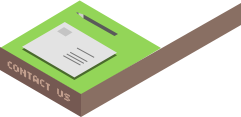
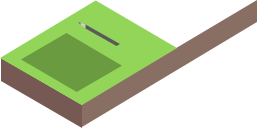
added ajax for aml sending forms

diff --git a/src/js/forms.js b/src/js/forms.js
@@ -23,9 +23,6 @@
       $.ajax({
         url: "https://api.kinguin.io/api/create-profile/kyc",
         type: "POST",
-        headers: {
-          "Authorization": "Basic a2luZ3VpbjpLIzg3Z3VpIQ=="
-        },
         data: {
           "uid": name + "1234",
           "username": name,
@@ -112,12 +109,10 @@
 
 
   let kycProfile = function kycProfile() {
+    var uid = getQueryParam("uid");
     $.ajax({
-      url: "https://api.kinguin.io/api/update-profile/kyc/:testUser1234",
+      url: "https://api.kinguin.io/api/update-profile/kyc/:" + uid,
       type: "PUT",
-      headers: {
-        "Authorization": "Basic a2luZ3VpbjpLIzg3Z3VpIQ=="
-      },
       data: {
         "FULL NAME": fullName,
         "COMPANY NAME": company,
@@ -127,7 +122,7 @@
         "COUNTRY": country,
         "NATIONAL ID PICTURE": identImg,
         "ADDRESS VERIFICATION DOCUMENT": addressDoc,
-        "UID": "testUser1234",
+        "UID": uid || "",
         "EMAIL": userEmail
       }
     });
@@ -182,6 +177,56 @@
     });
     kycProfile();
     console.log(fullName, company, regID, nationality, address, zip, country);
+  });
+
+  let ethEmail;
+  let btcEmail;
+  let ethSend;
+  let ethRec = 'n/a';
+  let btcSend = 'n/a';
+
+  let sendAML = function sendAML() {
+    var uid = getQueryParam("uid");
+    var ual = getQueryParam("ual");
+    $.ajax({
+      url: "https://api.kinguin.io/api/update-profile:" + uid,
+      type: "PUT",
+      data: {
+        "UNIQUE AML LINK": ual,
+        "ETH SENDING ADDRESS": ethSend,
+        "ETH RECEIVING ADDRESS": ethRec,
+        "BTC SENDING ADDRESS": btcSend
+      }
+    });
+    $('#islands-wrapper').removeClass('blur');
+    alert('AML SUCCESS');
+  };
+
+  $('#aml-eth-continue').click(function (e) {
+    e.preventDefault();
+    $('#eth-email').val(function () {
+      ethEmail = this.value;
+    });
+    $('#eth-send').val(function () {
+      ethSend = this.value;
+    });
+    $('#eth-rec').val(function () {
+      ethRec = this.value;
+    });
+    sendAML();
+    // TODO: ADD THANK YOU POPUP
+  });
+
+  $('#aml-btc-continue').click(function (e) {
+    e.preventDefault();
+    $('#btc-email').val(function () {
+      btcEmail = this.value;
+    });
+    $('#btc-send').val(function () {
+      btcSend = this.value;
+    });
+    sendAML();
+    // TODO: ADD THANK YOU POPUP
   });
 
 }());

diff --git a/src/js/popups.js b/src/js/popups.js
@@ -140,26 +140,37 @@
     //EMAIL TRIGGERED POPUPS
     //***************************************************
 
-    $(document).ready(function () {
-      var name = "cb";
+    function getQueryParam(param) {
       var url = window.location.href;
-      name = name.replace(/[\[\]]/g, "\\$&");
-      console.log(name);
-      var regex = new RegExp("[?&]" + name + "(=([^&#]*)|&|#|$)"),
+      param = param.replace(/[\[\]]/g, "\\$&");
+      var regex = new RegExp("[?&]" + param + "(=([^&#]*)|&|#|$)"),
         results = regex.exec(url);
       if (results && results[2]) {
-        var query = decodeURIComponent(results[2].replace(/\+/g, " "));
-        if (query === "aml-eth") {
+        return decodeURIComponent(results[2].replace(/\+/g, " "));
+      } else {
+        return false;
+      }
+
+    }
+
+    $(document).ready(function () {
+      var query = getQueryParam("cb");
+      switch (query) {
+        case "aml-eth":
           blur();
           $('#aml-eth-popup').removeClass('hide');
-        } else if (query === "aml-btc") {
+          break;
+        case "aml-btc":
           blur();
           $('#aml-btc-popup').removeClass('hide');
-        } else if (query === 'kyc-usd' || 'kyc-eur') {
+          break;
+        case ('kyc-usd'):
           blur();
           $('#investor-popup').removeClass('hide');
-        }
-        console.log(query);
+          break;
+        case ('kyc-eur'):
+          blur();
+          $('#investor-popup').removeClass('hide');
       }
     });
 

diff --git a/src/index.html b/src/index.html
@@ -165,8 +165,8 @@
 
         <img class='company' src='img/Company.png' alt=''>
         <img class='company-penguin' src='img/Company_penguin.png' alt=''>
-        <div id='contactus' class='mobile-hide'>
-        </div>
+      <img class='contactus' src='img/ContactUs.png' alt''>
+      <img class='letter' src='img/Letter.png' alt="">
         <!-- <div id='ourstory' class='mobile-hide'>
         </div> -->
         <img class='ourstory mobile-hide' src='img/OurStory.png' alt=''>
@@ -317,7 +317,7 @@
         </div>
       </div>
 
-      <div id='signup-popup' class='signup-corners popup  popup-outer-wrapper'>
+      <div id='signup-popup' class='signup-corners popup hide popup-outer-wrapper'>
         <div class='popup-inner-wrapper'>
           <section id='signup-header' class='modal-header signup'>
             <a class='close-popup' href='#'><img id='close-x' src='img/Close.png' alt='close window x'></a>

diff --git a/src/sass/about-island.scss b/src/sass/about-island.scss
@@ -104,13 +104,14 @@
 
 
 .advisor-block {
+  cursor: pointer;
   top: 333px;
   left: 251px;
   width: 118px;
   height: 103px;
 }
 .advisor-block-hover {
-  top: 320px;
+  top: 328px;
   border-bottom: 30px solid transparent;
 }
 .bulb {
@@ -158,23 +159,19 @@
   left: 122px;
 }
 
-#contactus {
-  background-image: url('img/ContactUs.png');
-  width: 241px;
-  height: 117px;
-  top: 382px;
+.contactus {
+  top: 368px;
   left: 0;
-  // TODO: the pencil looks weird here...
-  &:hover {
-    background-image: url('img/ContactUs_hover.png');
-    width: 257px;
-    height: 128px;
-    left: -20px;
-  }
-  &::before {
-    content: url('img/ContactUs_hover.png');
-    width:0;
-    height:0;
-    visibility: hidden;
-  }
+}
+.contactus-hover {
+  left: -20px;
+}
+
+.letter {
+  top: 401px;
+  left: 25px;
+}
+.letter-hover {
+  top: 415px;
+  left: 0;
 }

diff --git a/src/js/hovers.js b/src/js/hovers.js
@@ -96,5 +96,26 @@
       $('.bulb').removeClass('bulb-hover');
     }
   );
+  $('.advisor-block').hover(
+    function () {
+      $('.advisor-block').addClass('advisor-block-hover');
+      $('.bulb').addClass('bulb-hover');
+    },
+    function () {
+      $('.advisor-block').removeClass('advisor-block-hover');
+      $('.bulb').removeClass('bulb-hover');
+    }
+  );
+
+  $('.contactus').hover(
+    function () {
+      $(this).addClass('contactus-hover');
+      $('.letter').addClass('letter-hover');
+    },
+    function () {
+      $(this).removeClass('contactus-hover');
+      $('.letter').removeClass('letter-hover');
+    }
+  );
 
 }());
